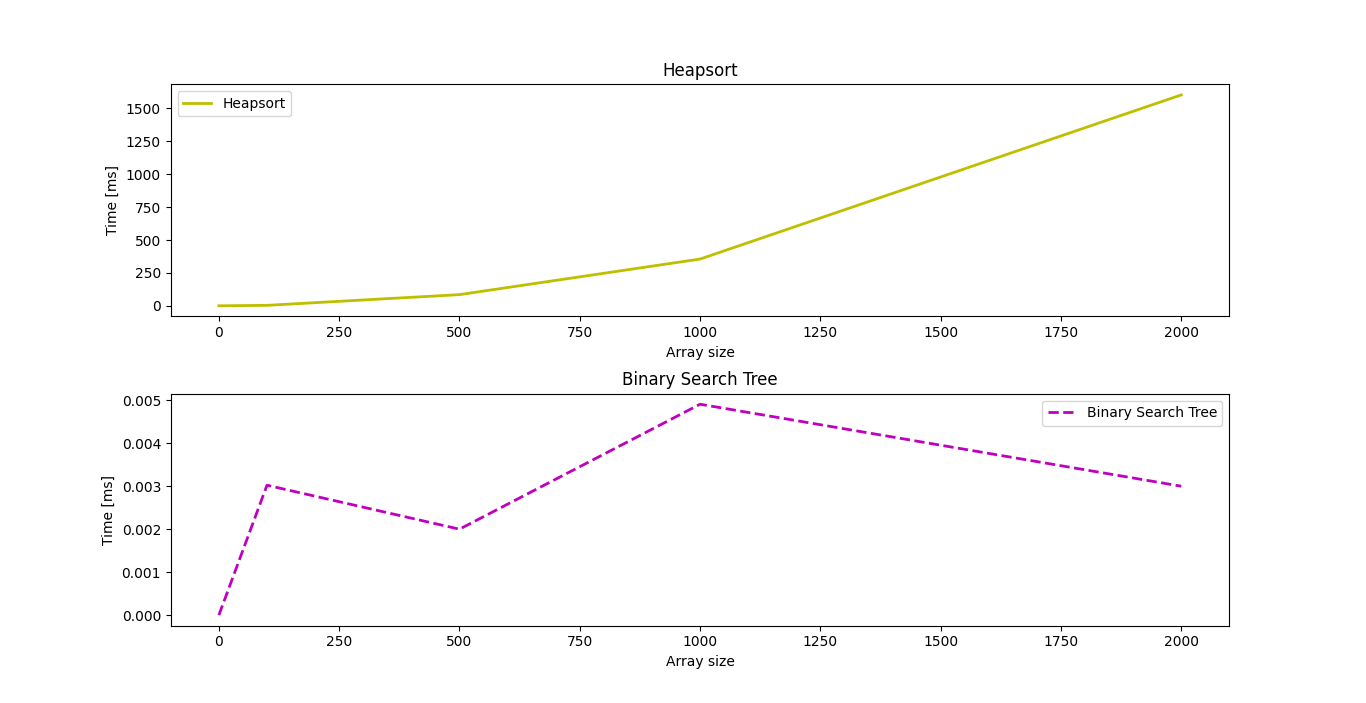
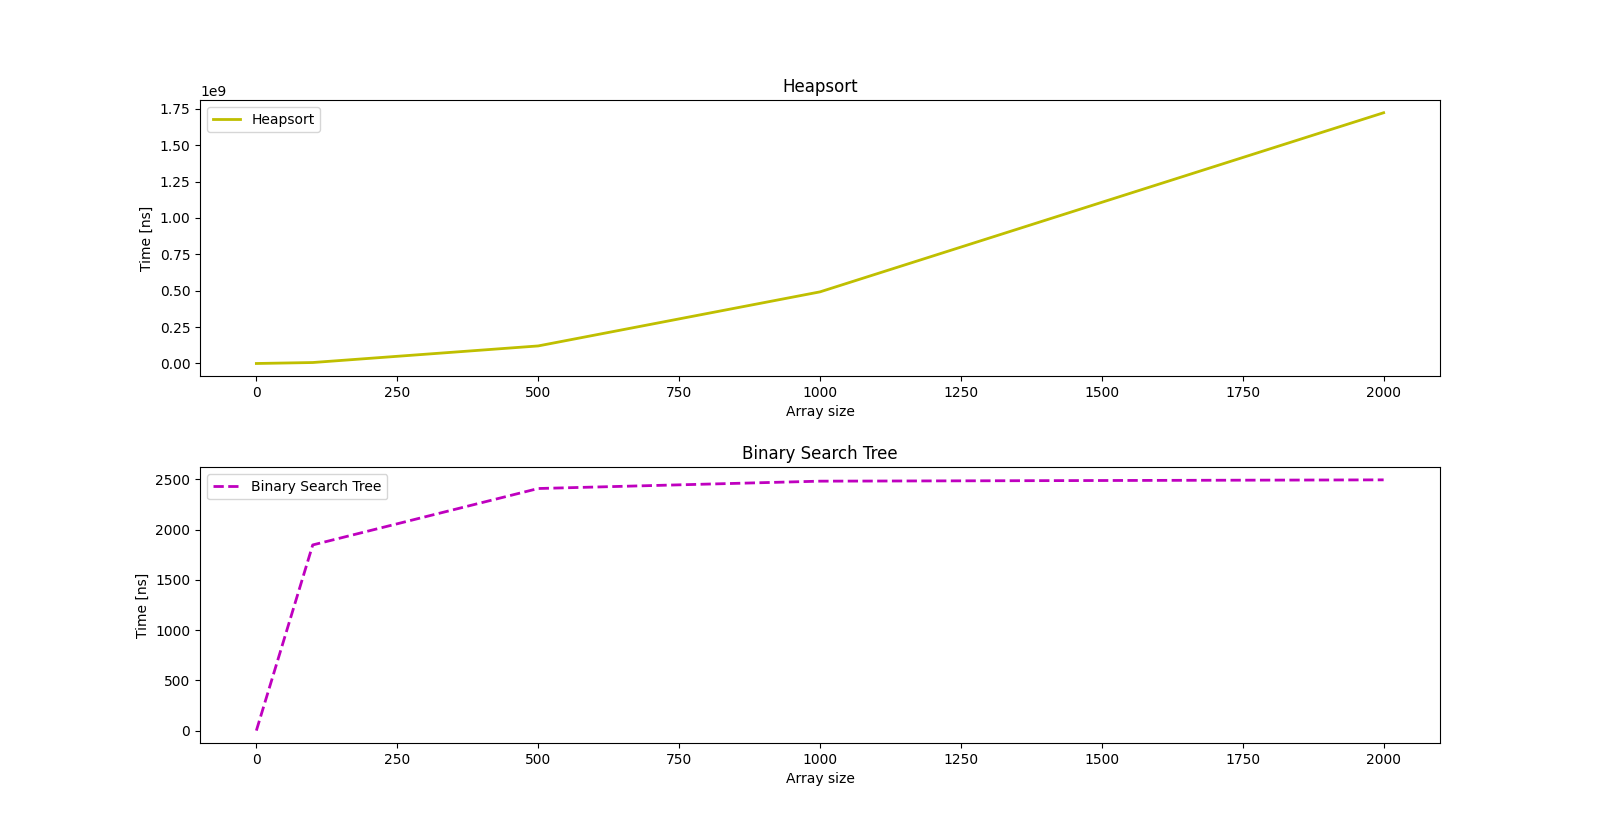
Measuring algorithm runtime in nanoseconds for higher accuracy

diff --git a/Zaj 4/Algorithms_Efficiency_Testing.py b/Zaj 4/Algorithms_Efficiency_Testing.py
@@ -18,9 +18,9 @@ for array_size in TEST_SIZES:
     delta_time = []
     for i in range(REPEAT_TIMES):
         random_int_vector = list(np.random.randint(MIN_HEAP_INT, MAX_HEAP_INT, array_size))
-        start_time = time.time()
+        start_time = time.perf_counter_ns()
         heap.Heap(random_int_vector).heap_sort()
-        delta_time.append((time.time() - start_time)*MILISECOND)
+        delta_time.append((time.perf_counter_ns() - start_time))
     heap_recorded_execution_times_vector.append(np.mean(delta_time))
 
 """ BST TEST """
@@ -36,10 +36,10 @@ for array_size in TEST_SIZES:
         for number in random_int_vector[1::]:
             bst.insert(number)
         values_to_search = random.sample(random_int_vector, NUMBER_OF_VALUES_TO_SEARCH)
-        start_time = time.time()
+        start_time = time.perf_counter_ns()
         for number in values_to_search:
             bst.search(number)
-        delta_time.append(((time.time() - start_time)/NUMBER_OF_VALUES_TO_SEARCH)*MILISECOND)
+        delta_time.append(((time.perf_counter_ns() - start_time)/NUMBER_OF_VALUES_TO_SEARCH))
     bst_recorded_execution_times_vector.append(np.mean(delta_time))
 
 """ CREATE PLOT """
@@ -50,13 +50,13 @@ fig = plt.figure()
 ax1 = fig.add_subplot(211)
 plt.plot(x_sizes, heap_recorded_execution_times_vector, label="Heapsort", linestyle="-", color="y", linewidth=2)
 plt.legend()
-ax1.set_ylabel("Time [ms]")
+ax1.set_ylabel("Time [ns]")
 ax1.set_xlabel("Array size")
 
 ax2 = fig.add_subplot(212)
 plt.plot(x_sizes, bst_recorded_execution_times_vector, label="Binary Search Tree", linestyle="--", color="m", linewidth=2)
 plt.legend()
-ax2.set_ylabel("Time [ms]")
+ax2.set_ylabel("Time [ns]")
 ax2.set_xlabel("Array size")
 
 ax1.title.set_text('Heapsort')
